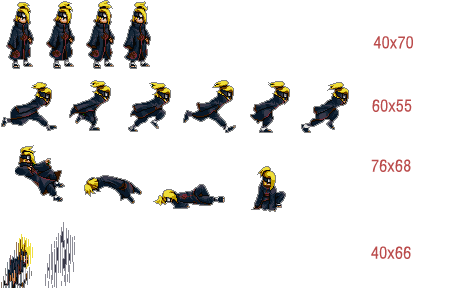
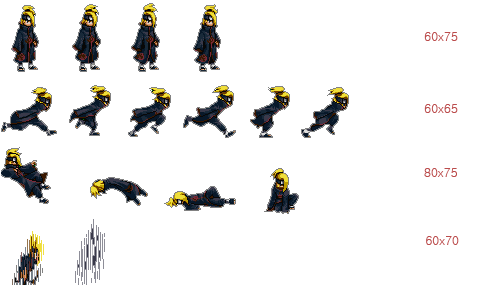
Fix & Add character object, image

diff --git a/character_object.py b/character_object.py
@@ -101,7 +101,35 @@ characters ={
         "speed" : 4,
         "cooldown_time" : 0,
         "hording_time" : 0,
+    },'ninja' : {
+        "size" : [50, 70],
+        0 : {"frame" : 4, "bottom" : 210, "width" : 60, "height" : 75},     #idle
+        1 : {"frame" : 6, "bottom" : 145, "width" : 60, "height" : 65},      #run
+        2 : {"frame" : 4, "bottom" : 70, "width" : 80, "height" : 75},      #run
+        3 : {"frame" : 2, "bottom" : 0, "width" : 60, "height" : 70},
+        "speed" : 4,
+        "cooldown_time" : 0,
+        "hording_time" : 0,
+    },'witch' : {
+        "size" : [50, 70],
+        0 : {"frame" : 5, "bottom" : 305, "width" : 100, "height" : 95},     #idle
+        1 : {"frame" : 2, "bottom" : 205, "width" : 100, "height" : 100},      #run
+        2 : {"frame" : 5, "bottom" : 120, "width" : 110, "height" : 85},      #run
+        3 : {"frame" : 4, "bottom" : 0, "width" : 100, "height" : 120},
+        "speed" : 4,
+        "cooldown_time" : 0,
+        "hording_time" : 0,
+    },'zombie' : {
+        "size" : [50, 70],
+        0 : {"frame" : 4, "bottom" : 145, "width" : 90, "height" : 75},     #idle
+        1 : {"frame" : 5, "bottom" : 70, "width" : 90, "height" : 75},      #run
+        2 : {"frame" : 8, "bottom" : 0, "width" : 90, "height" : 70},      #run
+        3 : None,
+        "speed" : 2,
+        "cooldown_time" : 0,
+        "hording_time" : 0,
     },
+    
 }
 
 class Character:
@@ -137,6 +165,7 @@ class Character:
     def draw_character(self):
         self.set_animation()
         self.image.clip_draw(self.frameSize[0]*self.frame, self.frameSize[1], self.frameSize[2], self.frameSize[3], self.x, self.y, 50, 80)
+        delay(0.5)
 
     def update(self):
         self.frame = (self.frame + 1) % self.frameNum
@@ -175,8 +204,7 @@ class Character:
                 case pico2d.SDLK_r:
                     self.state = 3
                     pass
-                case pico2d.SDLK_d:
-                    #character sprite test
+                case pico2d.SDLK_d: #character sprite test
                     self.state = 2
         elif event.type == SDL_KEYUP:
             match event.key:

diff --git a/play_state.py b/play_state.py
@@ -15,7 +15,7 @@ difficulty = 0
 def enter():
     global player, background, running
     #print(type(random.choice(characters.keys())))
-    player = Character('turtle', 30, 90)
+    player = Character('zombie', 30, 90)
     background = Background()
     running = True
 
